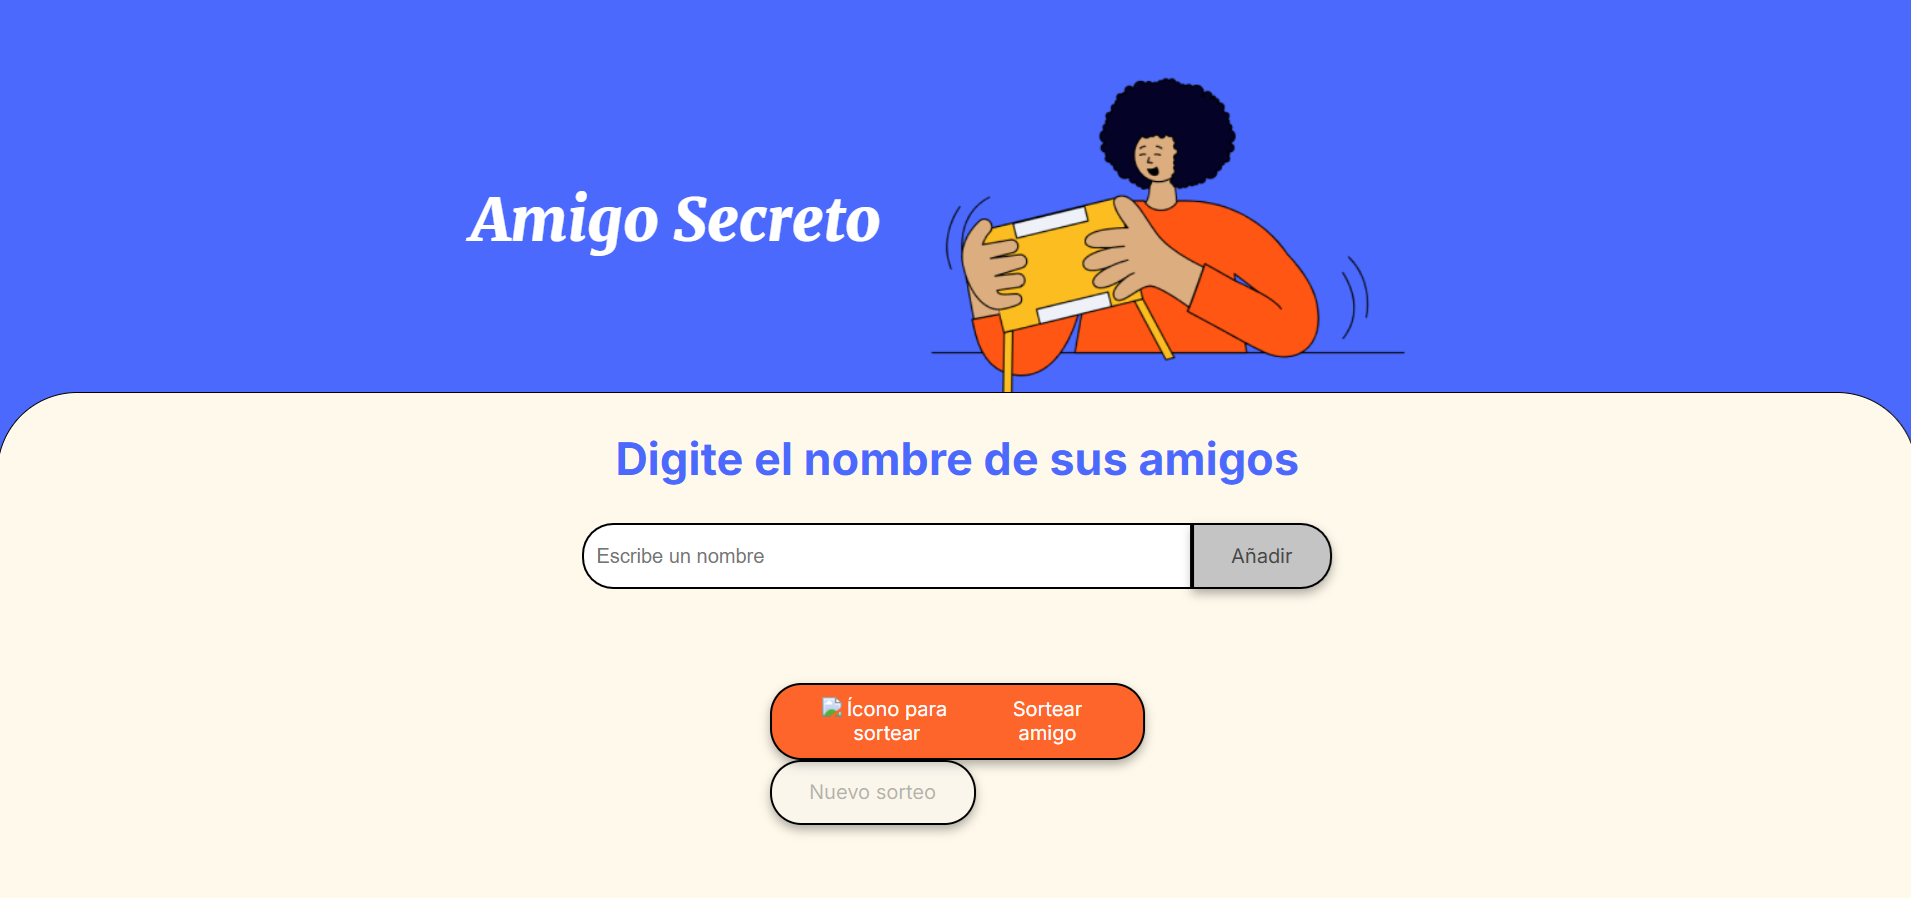
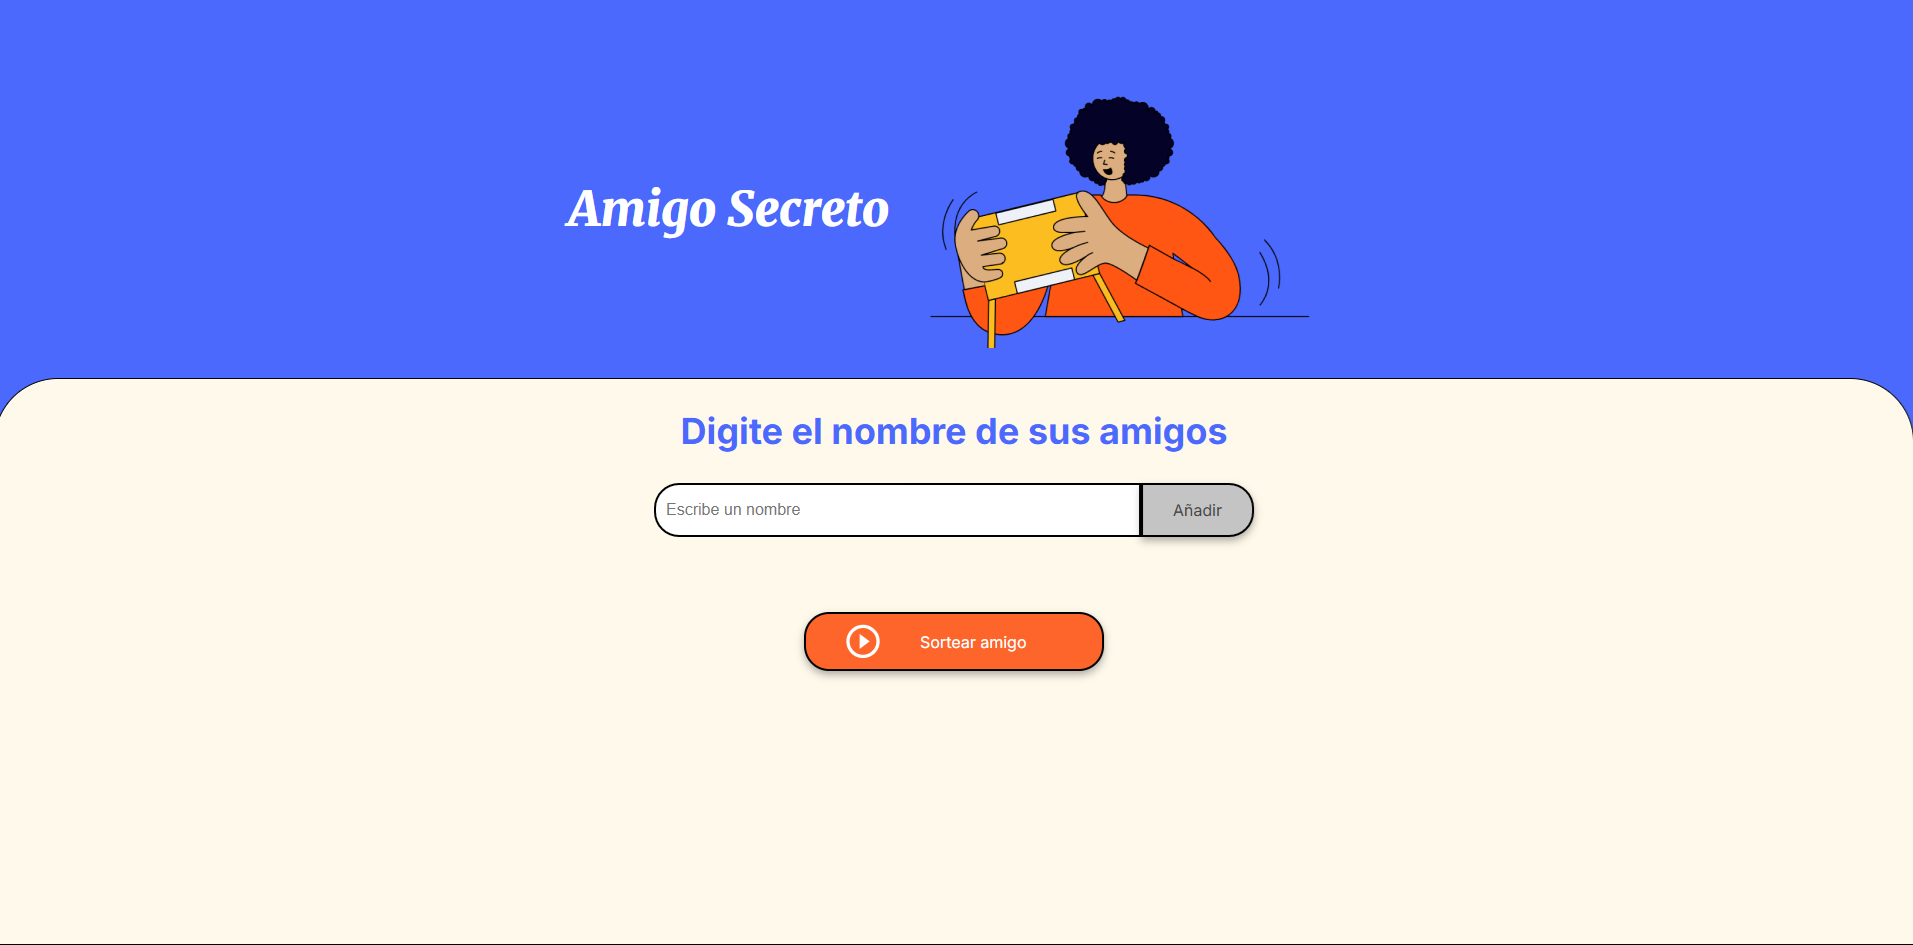
Actualiza el index.html

diff --git a/index.html b/index.html
@@ -28,11 +28,9 @@
 
             <div class="button-container">
                 <button class="button-draw" onclick="sortearAmigo();" aria-label="Sortear amigo secreto">
-                    <img src="assest/play_cicle_outline.png" alt="Ícono para sortear">
+                    <img src="assets/play_circle_outline.png" alt="Ícono para sortear">
                     Sortear amigo
                 </button>
-                <button class="container__boton" onclick="reiniciarSorteo();" id="reiniciar" disabled>Nuevo sorteo</button>
-            </div>
         </section>
     </main>
 
